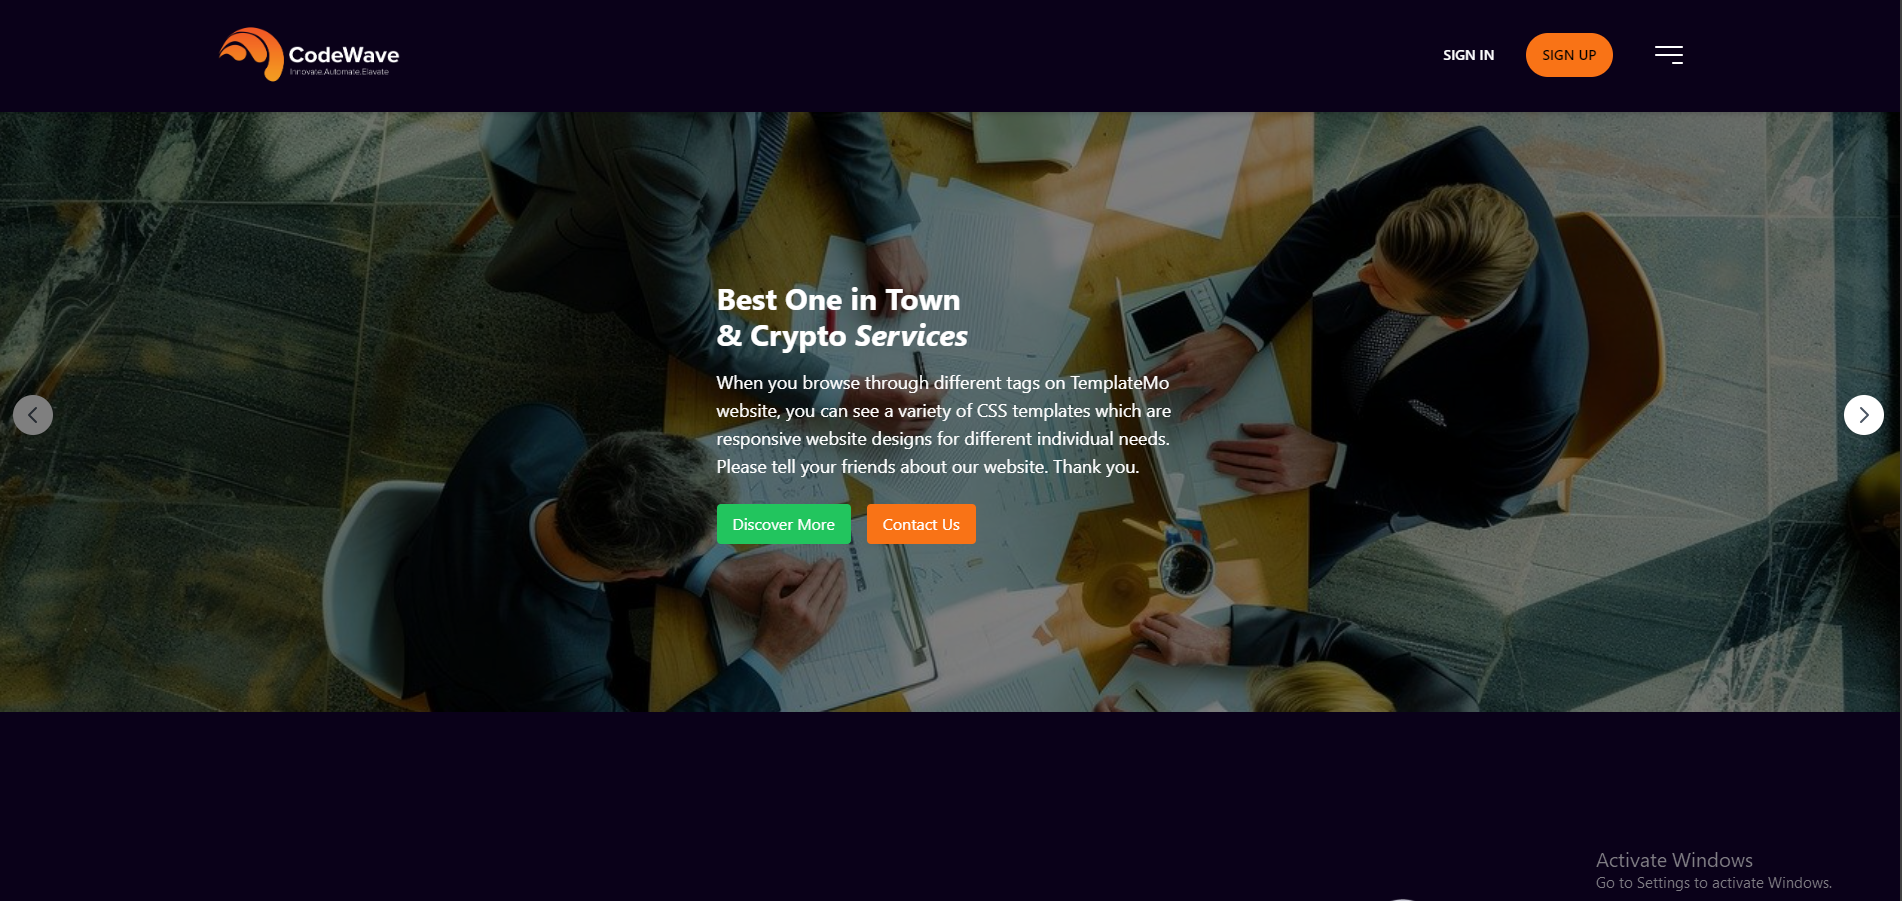
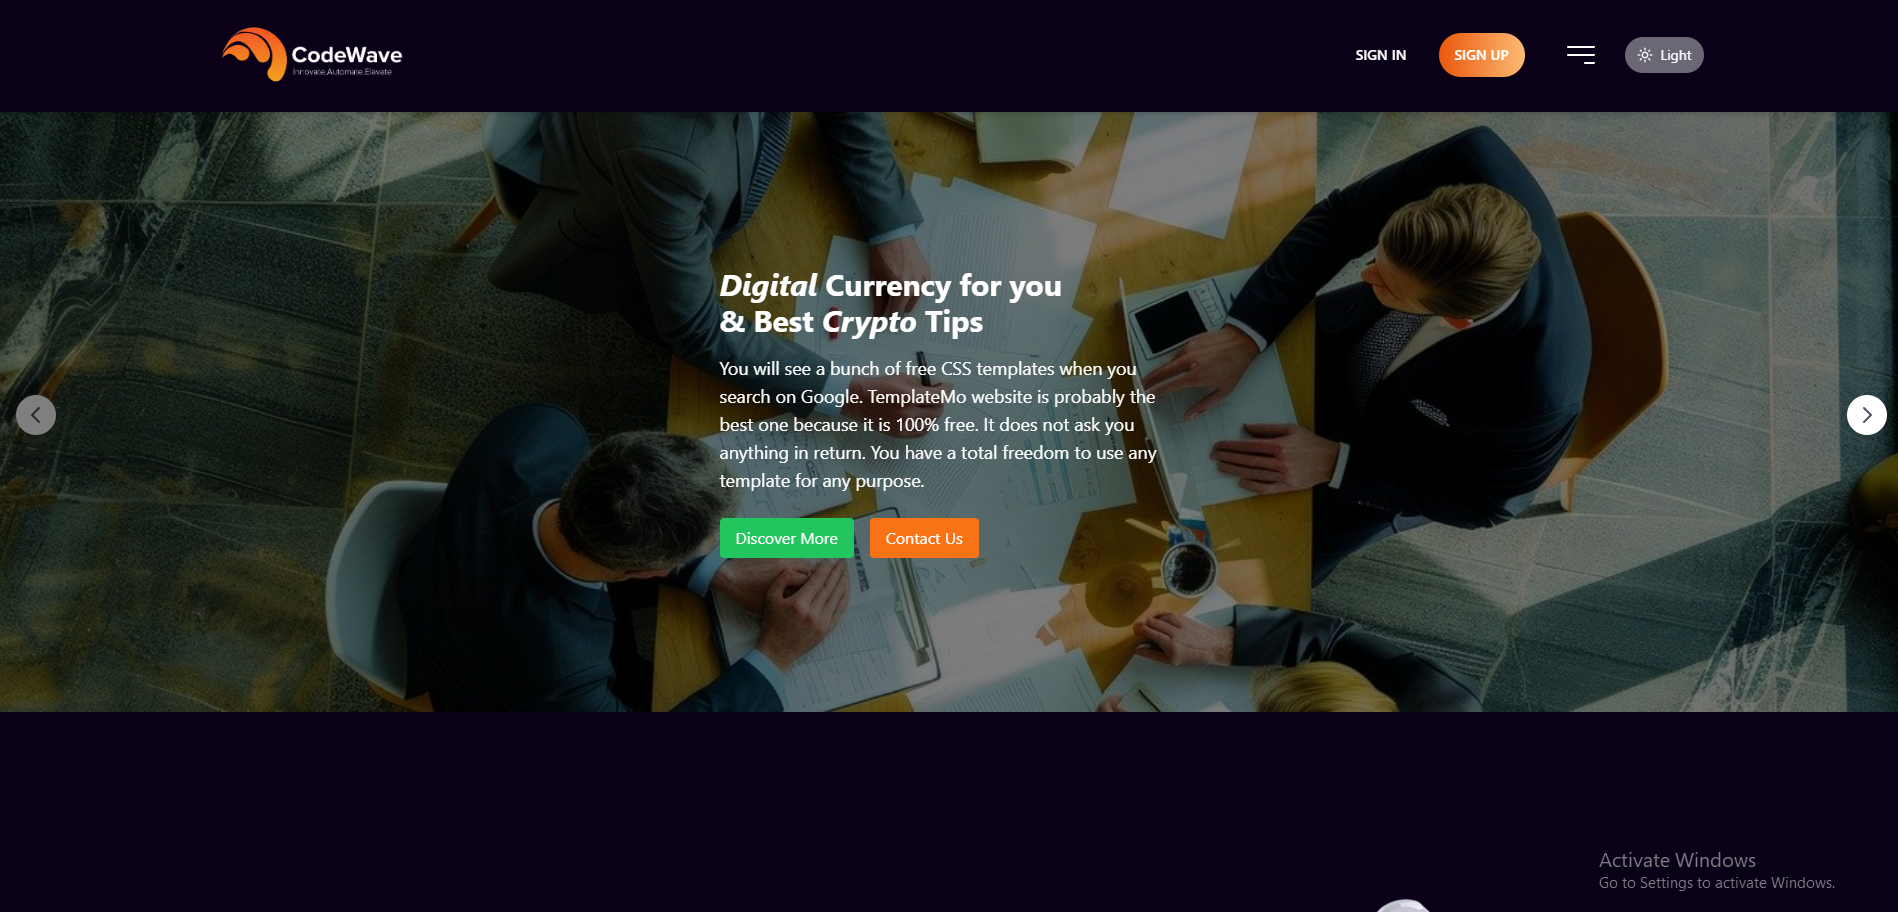
update readme

diff --git a/README.md b/README.md
@@ -46,7 +46,7 @@ npm run dev
 
 <hr>
 
-#### Landing
+#### Landing (Dark Mode)
 
 <table>
   <tr>
@@ -61,7 +61,27 @@ npm run dev
   </tr>
   <tr>
     <td><img src="8.png" width=400 hieght=400/></td>
+    <td><img src="9.png" width=400 hieght=400/></td>
     <td><img src="frontend/public/images/3.png" width=400 hieght=400/></td>
+  </tr>
+  
+</table>
+
+<hr>
+
+
+#### Landing (Light Mode)
+
+<table>
+  <tr>
+    <td><img src="1.1.png" width=400 hieght=400/></td>
+    <td><img src="1.2.png" width=400 hieght=400/></td>
+    <td><img src="1.3.png" width=400 hieght=400/></td>
+  </tr>
+  <tr>
+    <td><img src="1.4.png" width=400 hieght=400/></td>
+    <td><img src="1.5.png" width=400 hieght=400/></td>
+    <td><img src="1.7.png" width=400 hieght=400/></td>
   </tr>
   
 </table>
